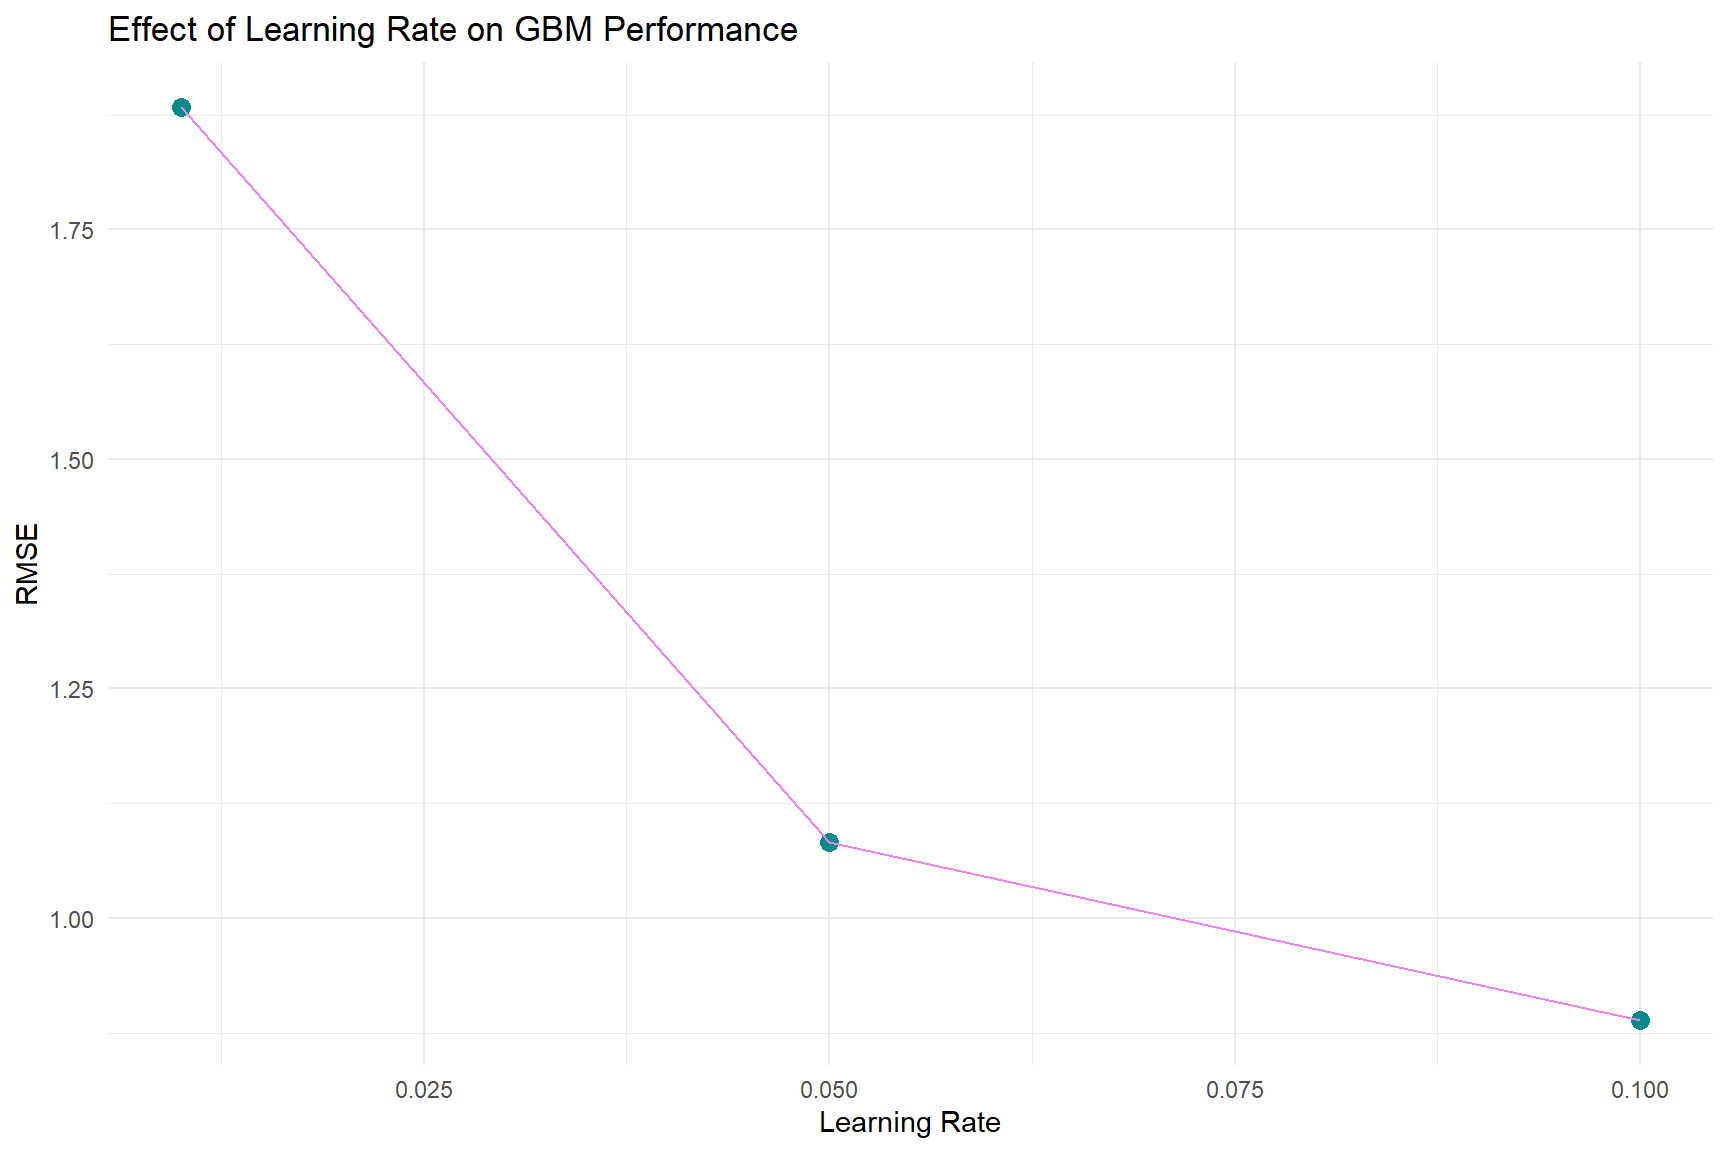
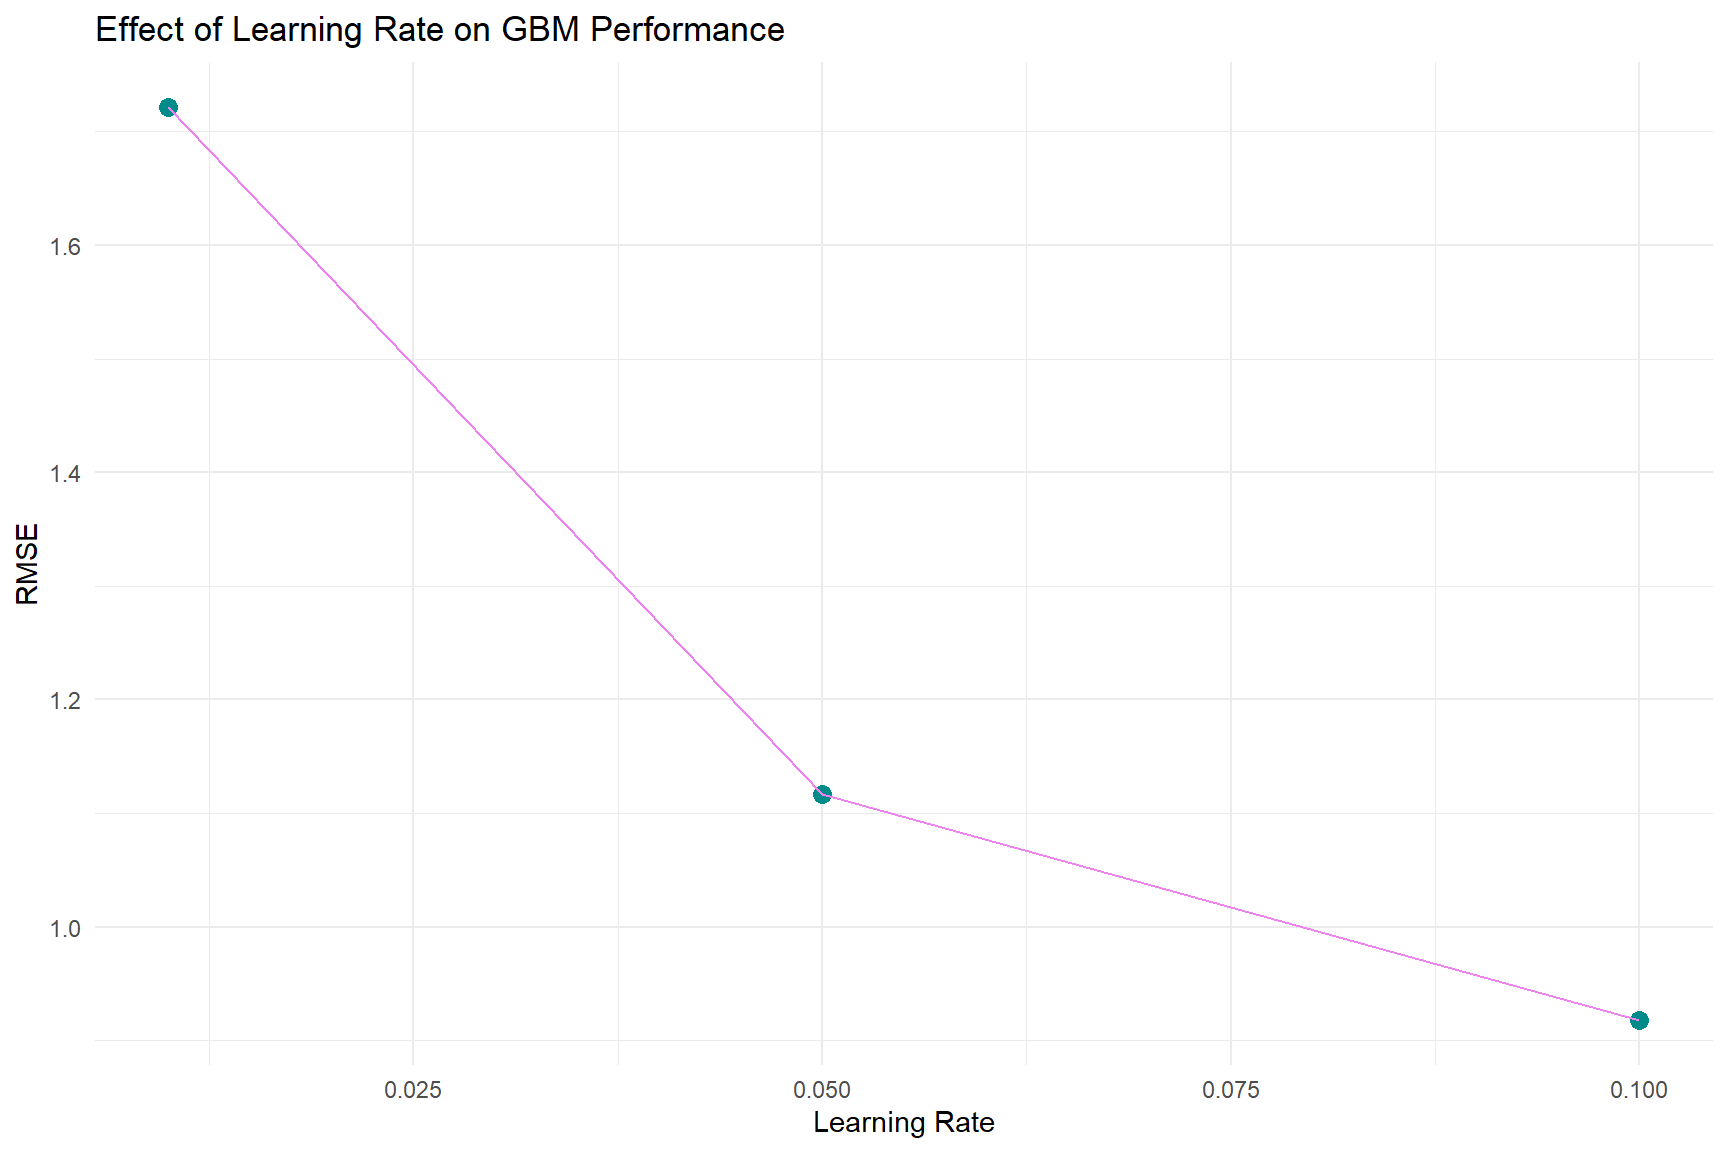
update vignette

diff --git a/README.md b/README.md
@@ -1,169 +1,28 @@
-<b><u>GradBoostR</b></u>
-<hr></hr>
+# GradBoostR <img src="https://raw.githubusercontent.com/nicjc/GradBoostR/main/man/figures/logo.png" align="right" width="120" />
 
-<p align="left">
-  <img src="GradBoostR.png" width="200">
-</p>
+<!-- Badges -->
+[![CRAN Status](https://www.r-pkg.org/badges/version/GradBoostR)](https://CRAN.R-project.org/package=GradBoostR)
+[![CRAN Downloads](https://cranlogs.r-pkg.org/badges/GradBoostR)](https://cranlogs.r-pkg.org/badges/GradBoostR)
+[![R-CMD-check](https://github.com/nicjc/GradBoostR/actions/workflows/R-CMD-check.yaml/badge.svg)](https://github.com/nicjc/GradBoostR/actions/workflows/R-CMD-check.yaml)
+[![License: MIT](https://img.shields.io/badge/License-MIT-blue.svg)](LICENSE)
 
-<i>Fast ML engine with boosting, random forests, and neural nets.</i>
+---
 
-# Why <b>GradBoostR</b>, and how does it work ?
+## Overview
 
-<hr></hr>
+**GradBoostR** is a fast, lightweight machine learning package for R that implements:
 
-[View the vignette](https:/NicJC.github.io/GradBoostR/GradBoostR.html)
+- **Random Forests** (regression + classification)  
+- **Gradient Boosting Machines (GBM)**  
+- **Neural Networks (NN)** with Armadillo backend  
 
+The package is designed for **speed**, **simplicity**, and **clean R interfaces**, while leveraging optimized C++ code via RcppArmadillo.
 
-<b>GradBoostR</b> is a unified machine‑learning toolkit designed to make fast, consistent modeling easy in R.
-It provides four high‑performance algorithms implemented in optimized C++:
+---
 
-* Random Forest Regression
+## Installation
 
-* Random Forest Classification
+### From CRAN (once published)
 
-* Gradient Boosting Machines (GBM)
-
-* Neural Network Regression
-
-
-All models share the same simple interface.
-
-
-<b>GradBoostR</b> has two main R functions:
-
-* gradboostr_fit() → trains a model
-
-* gradboostr_predict() → makes predictions with that model
-
-Everything else in the package is built around these two ideas.
-
-<B>It is ideal for:</b>
-
- - tabular regression
-
- - tabular classification
-
- - teaching ML algorithms
-
- - experimenting with tree and boosting logic
-
- - building your own modeling ecosystem
- 
- 
-## Let’s break things down.
- 
-### Training a Model
- 
-Think of <b><i>gradboostr_fit()</i></b> as the “model builder.”
- 
- <u>You add:</u>  
- 
- * a feature matrix X
-
- * a target y
-
- * a method (rf, rf_class, gbm, nn)
-
- * optional hyperparameters
- 
-### Your inputs are checked
-
-<b>GradBoostR:</b>
-
- Converts data frames to matrices
-
- Ensures X is a matrix
-
- Ensures classification targets are factors
- 
-### Choice of engine
-<i>Depending on the "method", a call is made to the relevant functions :</i>
-
-| Method     | What happens                                      |
-|------------|---------------------------------------------------|
-| `rf`       |       Calls random forest regression engine     |
-| `rf_class` |       Calls random forest classification engine |
-| `gbm`      |       Calls gradient boosting engine                |
-| `nn`       |       Calls neural network engine                   |
-
-## How to Tune Neural Networks in GradBoostR
-
-Because the architecture is compact, tuning is straightforward — <u>but the choices matter!</u>
-
-
-
-#### Hidden Layer Size
-
-<i>This is the most important hyperparameter.</i>
-
-It controls the number of neurons(computational nodes) in the hidden layer.
-
-```md 
 ```r
-m_nn <- gradboostr_fit(X, y_reg, method = "nn", hidden = 10, epochs = 50)
-
-```
-
-The affect on performance: 
-
-* Too small → underfitting
-
-* Too large → overfitting, slower training
-
-* Just right → smooth nonlinear approximation
-
-<b>A guideline:</b>
-
-| Data complexity                   |    Recommended hidden size      |
-|-----------------------------------|---------------------------------|
-| Linear-ish                        |       3–10                      |
-| Mild nonlinear                    |       10–30                     |
-| Strong nonlinear                  |       30–80                     |
-| Very complex                      |       80–150                    |
-
-#### Number of Epochs
-
-<i>Controls how long the network trains.</i>
-
-Each epoch runs a full forward + backward pass.
-
-```md
-```r
-m_nn <- gradboostr_fit(X, y, method = "nn", epochs = 100)
-```
-
-The affect on performance:
-
-* Too few → model doesn’t converge
-
-* Too many → overfitting, wasted compute
-
-<b>A guideline:</b>
-
-| Dataset size            |    Recommended epochs     |
-|-------------------------|---------------------------|
-| < 1,000 rows            |       30–80               |
-| 1,000–10,000            |       80–150              |
-| > 10,000                |       150–300             |
-
-
-#### Learning Rate
-
-<i>If your NN engine exposes this, it controls how big each gradient step is.</i>
-
-An optimal learning rate lets the model reach a low error rate , improves the training process, improves accuracy ...
-
-```md
-```r
-<- gradboostr_fit(X, y_reg, method = "gbm",
-                          learning_rate = 0.1, n_trees = 50)
-```
-
-<b>A guideline:</b>
-
-| Learning rate            |    Behavior                    |
-|--------------------------|--------------------------------|
-| 0.001                    |      slow but stable           |
-| 0.01                     |       good default             |
-| 0.05                     |   fast but may overshoot       |
-| 0.1                      | unstable unless data is simple |
+install.packages("GradBoostR")
